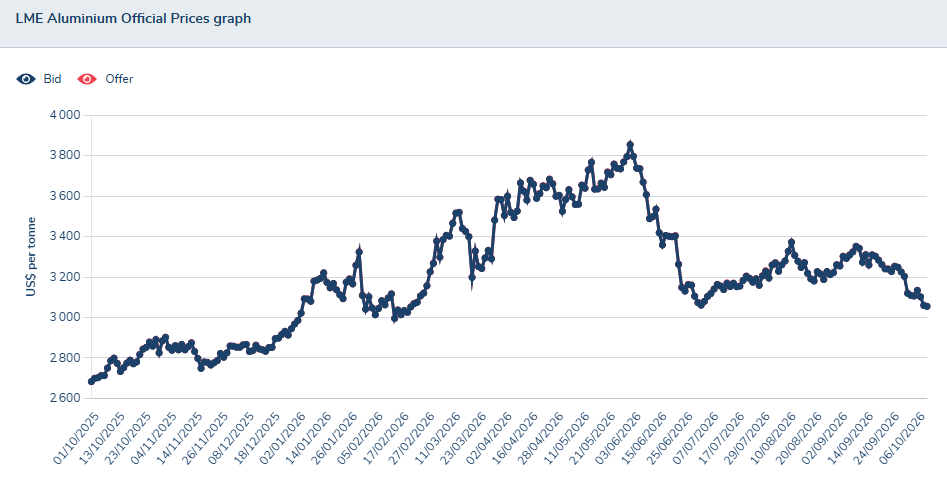
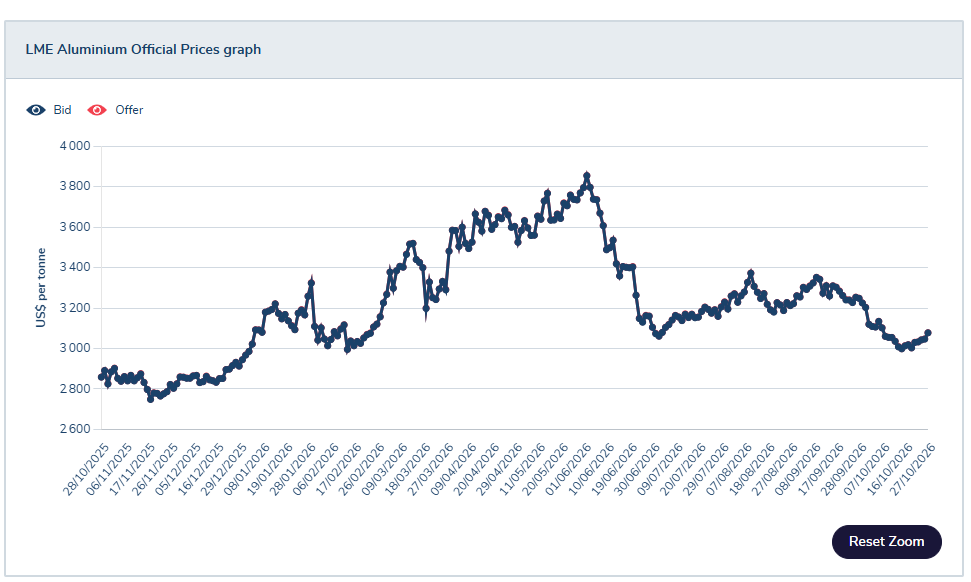
Indicateurs de marché : aluminium LME mis à jour (cours au 27.10.2026), date de révision 28.10.2026
Claude-Session: https://claude.ai/code/session_016aozrDweoiigfqF25TdjzY

diff --git a/public/catalogue.html b/public/catalogue.html
@@ -3670,7 +3670,7 @@ function renderMarketIndexDetail(data,current,diesel,canplast,brent,eurchf,usdch
     kbob:{upd:kbobLast(current),src:KBOB_SRC}, gaz:{upd:kbobLast('Gaz (artisanat, industries, services)'),src:KBOB_SRC}, elec:{upd:kbobLast('Electricité (artisanat, industries, services)'),src:KBOB_SRC},
     astag:{upd:dieselLast?'semaine du '+dateFR(dieselLast.weekStart):null,src:'ASTAG — prix moyen hebdomadaire du diesel'},
     corr:{upd:dieselLast?'semaine du '+dateFR(dieselLast.weekStart):null,src:'ASTAG et Brent'},
-    alu:{upd:CAPT,src:'LME'}, cuivre:{upd:CAPT,src:'LME'}, nickel:{upd:CAPT,src:'LME'}, zinc:{upd:CAPT,src:'LME'}, ferraille:{upd:CAPT,src:'Platts'}, hrc:{upd:CAPT,src:'Argus'}, rebar:{upd:CAPT,src:'Platts'},
+    alu:{upd:'mis à jour le 28.10.2026 (cours au 27.10.2026)',src:'LME — Aluminium Official Prices'}, cuivre:{upd:CAPT,src:'LME'}, nickel:{upd:CAPT,src:'LME'}, zinc:{upd:CAPT,src:'LME'}, ferraille:{upd:CAPT,src:'Platts'}, hrc:{upd:CAPT,src:'Argus'}, rebar:{upd:CAPT,src:'Platts'},
     acier:{upd:lastOf(acier.dates)?'relevé du '+dateFR(lastOf(acier.dates)):null,src:'Aurélien (Achats)'},
     brent:{upd:lastOf(brentDatesAll)?'semaine du '+dateFR(lastOf(brentDatesAll)):null,src:'Brent Crude Oil — clôtures hebdomadaires'},
     eurchf:{upd:lastOf(eDatesAll)?'semaine du '+dateFR(lastOf(eDatesAll)):null,src:'EUR/CHF spot — clôtures hebdomadaires'},
@@ -3710,7 +3710,7 @@ const mktSummaryRows=
 
   const panelCorr=`<div id="mkt-corr" class="marketDetailPanel" ${mktHidden('corr')}><div class="analysisBlock" style="margin-top:18px"><div style="display:flex;justify-content:space-between;align-items:center;flex-wrap:wrap;gap:8px"><h3 style="margin:0">🔗 ASTAG vs Brent</h3><button class="miniBtn" style="${corrOverlay?'background:#0b4f9c':'background:#eef2f7;color:#10233e'}" onclick="toggleCorrOverlay()">${corrOverlay?'⬛ Afficher séparément':'🔀 Superposer les 2 courbes'}</button></div><p class="muted">${corrOverlay?'Les deux séries sont ramenées à la même base 100 sur leurs semaines communes, pour comparer leurs évolutions relatives plutôt que leurs niveaux.':'Valeurs réelles de chaque série (CHF/litre pour l\'ASTAG, USD/baril pour le Brent).'} <small>Ratio retenu : +1 USD/baril Brent ≈ +0,003 CHF/l sur l'ASTAG (hors TVA, avec un décalage de 2 semaines) — c'est l'impact du taux de change/cours du pétrole sur le diesel.</small></p>${corrOverlay?`<div class="chartCard" style="margin-top:12px"><h3>ASTAG (bleu) et Brent (orange, pointillé) — base 100</h3>${corrChart}</div>`:`<div class="chartGrid"><div class="chartCard"><h3>Diesel ASTAG — CHF/l</h3>${dieselChart}</div><div class="chartCard"><h3>Pétrole Brent — USD/baril</h3>${brentChart}</div></div>`}</div></div>`;
 
-  const panelAlu=`<div id="mkt-alu" class="marketDetailPanel" ${mktHidden('alu')}><div class="analysisBlock" style="margin-top:18px"><h3>🔩 Aluminium (LME)</h3><p class="muted">Cours LME Aluminium (USD/tonne) — capture fournie, pas encore intégré comme série de données exploitable dans l'outil.</p><img src="/market_charts/aluminium.png" style="max-width:100%;border:1px solid #e5e9ef;border-radius:8px" alt="Aluminium (LME)"></div></div>`;
+  const panelAlu=`<div id="mkt-alu" class="marketDetailPanel" ${mktHidden('alu')}><div class="analysisBlock" style="margin-top:18px"><h3>🔩 Aluminium (LME)</h3><p class="muted">Cours LME Aluminium (USD/tonne), du 28.10.2025 au 27.10.2026 — <b>mis à jour le 28.10.2026</b> (capture LME, pas encore intégré comme série de données exploitable dans l'outil).</p><img src="/market_charts/aluminium.png?v=20261028" style="max-width:100%;border:1px solid #e5e9ef;border-radius:8px" alt="Aluminium (LME)"></div></div>`;
 
   const panelCuivre=`<div id="mkt-cuivre" class="marketDetailPanel" ${mktHidden('cuivre')}><div class="analysisBlock" style="margin-top:18px"><h3>🟠 Cuivre (LME)</h3><p class="muted">Cours LME Cuivre (USD/tonne) — capture fournie, pas encore intégré comme série de données exploitable dans l'outil.</p><img src="/market_charts/cuivre.png" style="max-width:100%;border:1px solid #e5e9ef;border-radius:8px" alt="Cuivre (LME)"></div></div>`;
 
